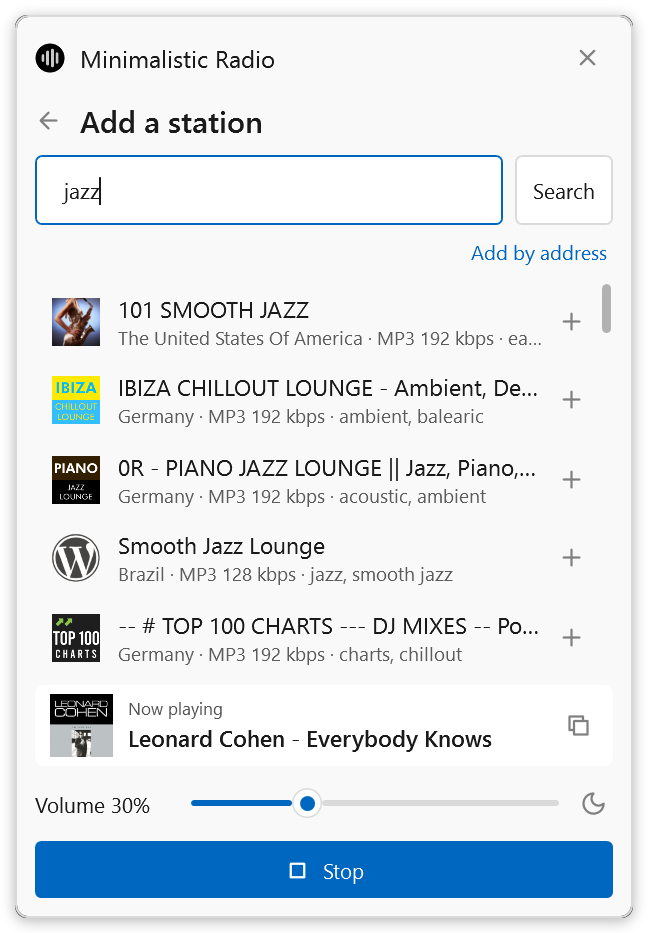
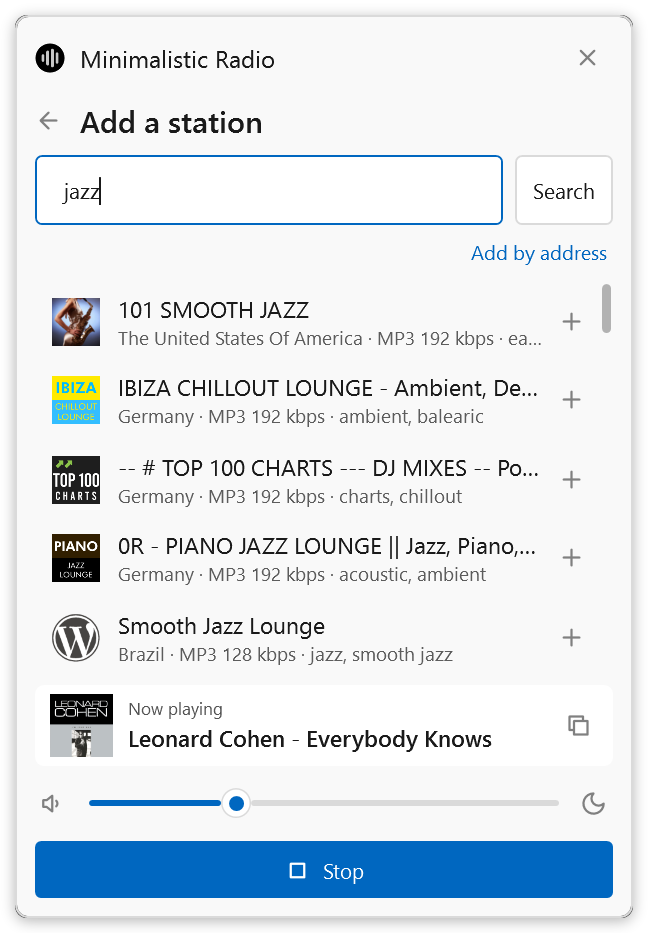
Volume row like Windows 11: speaker button and a value bubble (2.4.0)
The "Volume N%" label gives way to a speaker button that shows the level
(muted, one, two or three waves) and mutes or unmutes through ChangeVolume,
so the tray menu, the media controls and the saved volume follow. Unmuting
brings back the level from before (30 if none), also after a drag down to 0.
While the volume changes by hand (drag, wheel, keys) a small bubble above the
knob shows the number; it goes a second after the last change or on release.
The slider is named for screen readers. README screenshots with the panel
regenerated.

diff --git a/src/Radio/RadioPanel.cs b/src/Radio/RadioPanel.cs
@@ -10,6 +10,7 @@ using System.Runtime.InteropServices;
 using System.Threading;
 using System.Threading.Tasks;
 using System.Windows;
+using System.Windows.Automation;
 using System.Windows.Controls;
 using System.Windows.Controls.Primitives;
 using System.Windows.Input;
@@ -286,7 +287,6 @@ internal sealed partial class Radio
             Minimum = 0, Maximum = 100, Value = volume, IsSnapToTickEnabled = true, TickFrequency = 1,
             SmallChange = 1, LargeChange = 5, IsMoveToPointEnabled = true, VerticalAlignment = VerticalAlignment.Center
         };
-        var volumeText = new TextBlock { VerticalAlignment = VerticalAlignment.Center, MinWidth = 104 };
         var name = new TextBox { Tag = T("Nazwa stacji", "Station name"), MaxLength = 100 };
         var url = new TextBox { Tag = T("Adres strumienia HTTP lub HTTPS", "Stream address (HTTP or HTTPS)"), MaxLength = 2048 };
         var logo = new TextBox { Tag = T("Adres logotypu (opcjonalnie)", "Logo address (optional)"), MaxLength = 2048 };
@@ -971,13 +971,84 @@ internal sealed partial class Radio
         settingsPane.Content = BuildSettings();
 
         // Footer: now playing, volume with the sleep timer, play/stop.
-        volumeSlider.ValueChanged += (_, e) => ChangeVolume((int)Math.Round(e.NewValue));
+        // The volume row is like Windows 11's: a speaker button that shows the level and mutes, the slider, and the
+        // number in a bubble above the knob while the volume changes by hand. With no label, the slider is named.
+        AutomationProperties.SetName(volumeSlider, T("Głośność", "Volume"));
+        var muteButton = NewButton("GhostButton", null);
+        muteButton.Padding = new Thickness(8, 6, 8, 6);
+        muteButton.Margin = new Thickness(-4, 0, 6, 0);
+        muteButton.VerticalAlignment = VerticalAlignment.Center;
+        void ShowVolume()
+        {
+            string glyph = VolumeGlyph(volume);
+            if (Equals(muteButton.Tag, glyph)) return;
+            muteButton.Tag = glyph;
+            muteButton.Content = Theme.Glyph(glyph);
+            string tip = volume == 0 ? T("Włącz dźwięk", "Unmute") : T("Wycisz", "Mute");
+            muteButton.ToolTip = tip;
+            AutomationProperties.SetName(muteButton, tip);
+        }
+        muteButton.Click += (_, _) =>
+        {
+            ToggleMute();
+            volumeSlider.Value = volume;
+            ShowVolume();
+        };
+        // The bubble lives in the panel (a layer over the slider that may draw above it), not in a popup window, so it
+        // needs no window of its own, follows the theme like the rest, and shows in the self-test's pictures. It goes
+        // a second after the last wheel turn or key, or when a drag lets go.
+        var bubbleText = new TextBlock { FontSize = 12 };
+        var bubbleFace = new Border
+        {
+            CornerRadius = new CornerRadius(4), BorderThickness = new Thickness(1), Padding = new Thickness(8, 3, 8, 4), Child = bubbleText
+        };
+        bubbleFace.SetResourceReference(Border.BackgroundProperty, "Bg");
+        bubbleFace.SetResourceReference(Border.BorderBrushProperty, "Line");
+        var bubble = new Grid { Visibility = Visibility.Collapsed };
+        // Its shadow on a layer of its own, so the number keeps sharp ClearType text (like the panel's shadow).
+        bubble.Children.Add(new Border
+        {
+            CornerRadius = new CornerRadius(4), Background = Brushes.Black,
+            Effect = new DropShadowEffect { BlurRadius = 8, ShadowDepth = 1, Opacity = 0.25, Direction = 270 }
+        });
+        bubble.Children.Add(bubbleFace);
+        var bubbleLayer = new Canvas { IsHitTestVisible = false };
+        bubbleLayer.Children.Add(bubble);
+        var sliderCell = new Grid();
+        sliderCell.Children.Add(volumeSlider);
+        sliderCell.Children.Add(bubbleLayer);
+        var bubbleTimer = new DispatcherTimer { Interval = TimeSpan.FromSeconds(1) };
+        void HideBubble()
+        {
+            bubbleTimer.Stop();
+            bubble.Visibility = Visibility.Collapsed;
+        }
+        bubbleTimer.Tick += (_, _) => HideBubble();
+        panel.Closed += (_, _) => bubbleTimer.Stop();
+        void ShowBubble(bool untilRelease)
+        {
+            if (!(volumeSlider.Template?.FindName("PART_Track", volumeSlider) is Track track) || track.Thumb == null) return;
+            bubbleText.Text = ((int)Math.Round(volumeSlider.Value)).ToString(CultureInfo.InvariantCulture);
+            bubble.Visibility = Visibility.Visible;
+            sliderCell.UpdateLayout();   // the knob where the new value puts it, the bubble at its new width
+            Point knob = track.Thumb.TranslatePoint(new Point(track.Thumb.ActualWidth / 2, 0), bubbleLayer);
+            Canvas.SetLeft(bubble, Math.Round(knob.X - bubble.ActualWidth / 2));
+            Canvas.SetTop(bubble, Math.Round(knob.Y - bubble.ActualHeight - 4));
+            bubbleTimer.Stop();
+            if (!untilRelease) bubbleTimer.Start();
+        }
+        volumeSlider.ValueChanged += (_, e) =>
+        {
+            ChangeVolume((int)Math.Round(e.NewValue));
+            ShowVolume();
+        };
         // Like the Windows 11 volume slider: press anywhere on it and drag (WPF on its own only jumps
         // there and drags just the knob), and the mouse wheel changes the volume by 2%.
         void SlideTo(MouseEventArgs e)
         {
             if (volumeSlider.Template?.FindName("PART_Track", volumeSlider) is Track track)
                 volumeSlider.Value = Math.Round(Math.Max(0, Math.Min(100, track.ValueFromPoint(e.GetPosition(track)))));
+            ShowBubble(true);
         }
         // handledEventsToo: with IsMoveToPointEnabled the Slider itself marks a press next to the knob as
         // handled (it only jumps there), and a plain += handler would never see it.
@@ -998,11 +1069,20 @@ internal sealed partial class Radio
             volumeSlider.ReleaseMouseCapture();
             e.Handled = true;
         };
+        volumeSlider.LostMouseCapture += (_, _) => HideBubble();
         volumeSlider.MouseWheel += (_, e) =>
         {
             volumeSlider.Value = Clamp((int)volumeSlider.Value + (e.Delta > 0 ? 2 : -2), 0, 100);
+            ShowBubble(false);
             e.Handled = true;
         };
+        // handledEventsToo: the Slider handles its keys itself; this runs after, with the new value.
+        volumeSlider.AddHandler(UIElement.KeyDownEvent, new KeyEventHandler((_, e) =>
+        {
+            if (e.Key == Key.Left || e.Key == Key.Right || e.Key == Key.Up || e.Key == Key.Down ||
+                e.Key == Key.PageUp || e.Key == Key.PageDown || e.Key == Key.Home || e.Key == Key.End)
+                ShowBubble(false);
+        }), true);
         play.Click += (_, _) => TogglePlayback();
         var copy = NewButton("GhostButton", Theme.Glyph(Theme.CopyIcon), T("Kopiuj tytuł", "Copy title"));
         copy.Padding = new Thickness(8);
@@ -1053,7 +1133,7 @@ internal sealed partial class Radio
             (updateButton, Auto), (historyButton, Auto), (settingsButton, Auto), (closeButton, Auto));
         var header = Spaced(Orientation.Vertical, 12, titleRow, add, fields, sectionRow);
         header.Margin = new Thickness(0, 0, 0, 8);
-        var volumeRow = Columns((volumeText, Auto), (volumeSlider, Star), (sleepButton, Auto));
+        var volumeRow = Columns((muteButton, Auto), (sliderCell, Star), (sleepButton, Auto));
         play.HorizontalAlignment = HorizontalAlignment.Stretch;
         var footer = Spaced(Orientation.Vertical, 10, trackCard, volumeRow, sleepRow, play);
         footer.Margin = new Thickness(0, 10, 0, 0);
@@ -1143,8 +1223,8 @@ internal sealed partial class Radio
             copy.IsEnabled = track != null;
             now.Text = track ?? (session != null && status == StationName ? NoTrack : status);
             now.ToolTip = track;
-            volumeText.Text = T("Głośność ", "Volume ") + volume + "%";
             volumeSlider.Value = volume;
+            ShowVolume();
             bool sleeping = sleepAt != null;
             if (shownSleep != sleeping)
             {
@@ -1272,5 +1352,32 @@ internal sealed partial class Radio
             Debug.WriteLine(error);
             return null;
         }
+    }
+
+    // Self-test of the volume row (--test-menu, from VerifyMenu): the speaker for 0, 20, 50 and 90%, mute and unmute,
+    // and the number in the bubble on a wheel turn.
+    private async Task VerifyVolumeRow()
+    {
+        playerPanel?.Close();
+        OpenPlayer();
+        await Task.Delay(500);
+        var slider = Descendants(playerPanel).OfType<Slider>().First();
+        string[] speakers = { Theme.VolumeMutedIcon, Theme.Volume1Icon, Theme.Volume2Icon, Theme.Volume3Icon };
+        Button speaker = Descendants(playerPanel).OfType<Button>().First(button => speakers.Contains(button.Tag as string));
+        for (int i = 0; i < 4; i++)
+        {
+            ChangeVolume(new[] { 0, 20, 50, 90 }[i]);
+            await Task.Delay(300);   // the panel refreshes every 250 ms
+            if (speaker.Tag as string != speakers[i]) throw new InvalidOperationException("Błędna ikona głośności przy " + volume + "%.");
+        }
+        speaker.RaiseEvent(new RoutedEventArgs(ButtonBase.ClickEvent));
+        int muted = volume;
+        speaker.RaiseEvent(new RoutedEventArgs(ButtonBase.ClickEvent));
+        if (muted != 0 || volume != 90) throw new InvalidOperationException($"Wyciszanie: {muted}%, potem {volume}%.");
+        slider.RaiseEvent(new MouseWheelEventArgs(Mouse.PrimaryDevice, Environment.TickCount, 120) { RoutedEvent = Mouse.MouseWheelEvent });
+        var bubble = (FrameworkElement)((Panel)VisualTreeHelper.GetParent(slider)).Children.OfType<Canvas>().First().Children[0];
+        if (volume != 92 || !bubble.IsVisible || Descendants(bubble).OfType<TextBlock>().First().Text != "92")
+            throw new InvalidOperationException("Dymek głośności nie pokazuje wartości.");
+        playerPanel.Close();
     }
 }

diff --git a/src/Radio/RadioApp.cs b/src/Radio/RadioApp.cs
@@ -53,6 +53,8 @@ internal sealed partial class Radio
     private string artworkUrl;
     private string shownThumbnail;
     private int volume = 30;
+    private int unmuteVolume = 30, volumeBefore = 30;   // see ChangeVolume and ToggleMute
+    private readonly Stopwatch sinceVolumeChange = new Stopwatch();
     private bool playing;
     private string status = Ready;
     private CancellationTokenSource session;
@@ -333,6 +335,7 @@ internal sealed partial class Radio
                     throw new InvalidOperationException("Brak systemowego sterowania multimediami.");
                 CloseMenu();
                 await VerifyStationDrag();
+                await VerifyVolumeRow();
             }
         }
         catch (Exception error)
@@ -605,10 +608,28 @@ internal sealed partial class Radio
     {
         value = Clamp(value, 0, 100);
         if (value == volume) return;
+        // Changes less than a second apart (a drag, the wheel, the arrow keys) count as one: turned down to 0 that way,
+        // unmuting brings back the level from before them, not the 1% passed last.
+        if (!sinceVolumeChange.IsRunning || sinceVolumeChange.ElapsedMilliseconds > 1000) volumeBefore = volume;
+        sinceVolumeChange.Restart();
+        if (value == 0 && volumeBefore > 0) unmuteVolume = volumeBefore;
         Volatile.Write(ref volume, value);
         SavePreferences();
         UpdateMediaSession();
     }
+
+    // The panel's speaker button: mutes, and unmutes back to the level from before (30 if there was none). Through
+    // ChangeVolume like any change, so the tray menu, the media controls and the saved volume follow.
+    private void ToggleMute()
+    {
+        int before = volume;
+        ChangeVolume(before > 0 ? 0 : unmuteVolume);
+        if (before > 0) unmuteVolume = before;
+    }
+
+    // The speaker for a level, like Windows 11: muted, or one to three waves.
+    internal static string VolumeGlyph(int level) =>
+        level <= 0 ? Theme.VolumeMutedIcon : level <= 33 ? Theme.Volume1Icon : level <= 66 ? Theme.Volume2Icon : Theme.Volume3Icon;
 
     private void TogglePlayback()
     {

diff --git a/src/Theme/Theme.cs b/src/Theme/Theme.cs
@@ -117,6 +117,12 @@ internal static class Theme
     internal const string RadioIcon = "M3 10 L3 6 A2 2 0 0 1 5 4 H19 A2 2 0 0 1 21 6 V18 A2 2 0 0 1 19 20 H5 A2 2 0 0 1 3 18 Z M3 10 H21 M7 15 H7.01 M11 15 H17";
     internal const string CheckIcon = "M20 6 L9 17 L4 12";
     internal const string VolumeIcon = "M11 5 L6 9 H3 V15 H6 L11 19 Z M15 9 A4 4 0 0 1 15 15 M18 6 A8 8 0 0 1 18 18";
+    // The panel's speaker button, like Windows 11: muted, then one to three waves. One speaker for all four, a little
+    // left of VolumeIcon's so that the third wave fits.
+    internal const string VolumeMutedIcon = "M10 5 L5 9 H2 V15 H5 L10 19 Z M15 9 L21 15 M21 9 L15 15";
+    internal const string Volume1Icon = "M10 5 L5 9 H2 V15 H5 L10 19 Z M13.5 9.5 A3.5 3.5 0 0 1 13.5 14.5";
+    internal const string Volume2Icon = Volume1Icon + " M16.5 7 A7 7 0 0 1 16.5 17";
+    internal const string Volume3Icon = Volume2Icon + " M19.5 4.5 A10.5 10.5 0 0 1 19.5 19.5";
     internal const string PlusIcon = "M12 5 V19 M5 12 H19";
     internal const string MinusIcon = "M5 12 H19";
     internal const string QuitIcon = "M10 17 L15 12 L10 7 M15 12 H3 M15 3 H19 A2 2 0 0 1 21 5 V19 A2 2 0 0 1 19 21 H15";

diff --git a/docs/BUILDING.md b/docs/BUILDING.md
@@ -12,7 +12,7 @@ dotnet build src/MinimalisticRadio.csproj -c Release -o out
 ```
 
 - `out\Minimalistic Radio.exe --test-menu` runs the self-test (exit code 0 means OK; on failure the log is in `%TEMP%\MinimalisticRadio-test.log`).
-- `--test-menu --preview` also renders the panel, a station being dragged, menu, settings, history and station card into `%TEMP%\MinimalisticRadio-*.png`.
+- `--test-menu --preview` also renders the panel, a station being dragged (also far along a long list), menu, settings, history and station card into `%TEMP%\MinimalisticRadio-*.png`.
 - `--test-menu --screenshot` renders the README screenshots (English UI) into `%TEMP%\MinimalisticRadio-shot-*.png`; copy them to `docs/screenshots`. The two `tray-*` pictures put the real menu and panel above a drawn corner of the Windows 11 taskbar.
 
 ## Releases

diff --git a/README.md b/README.md
@@ -1,6 +1,6 @@
 <p align="center"><img src="docs/icon.png" width="96" alt="Minimalistic Radio icon"></p>
 
-<h1 align="center">Minimalistic Radio - only 222 KB</h1>
+<h1 align="center">Minimalistic Radio - only 227 KB</h1>
 
 <p align="center">A tiny open-source internet radio for Windows 10 and 11 that lives next to the clock.<br>One <code>.exe</code>, no installer, nothing else to install.</p>
 
